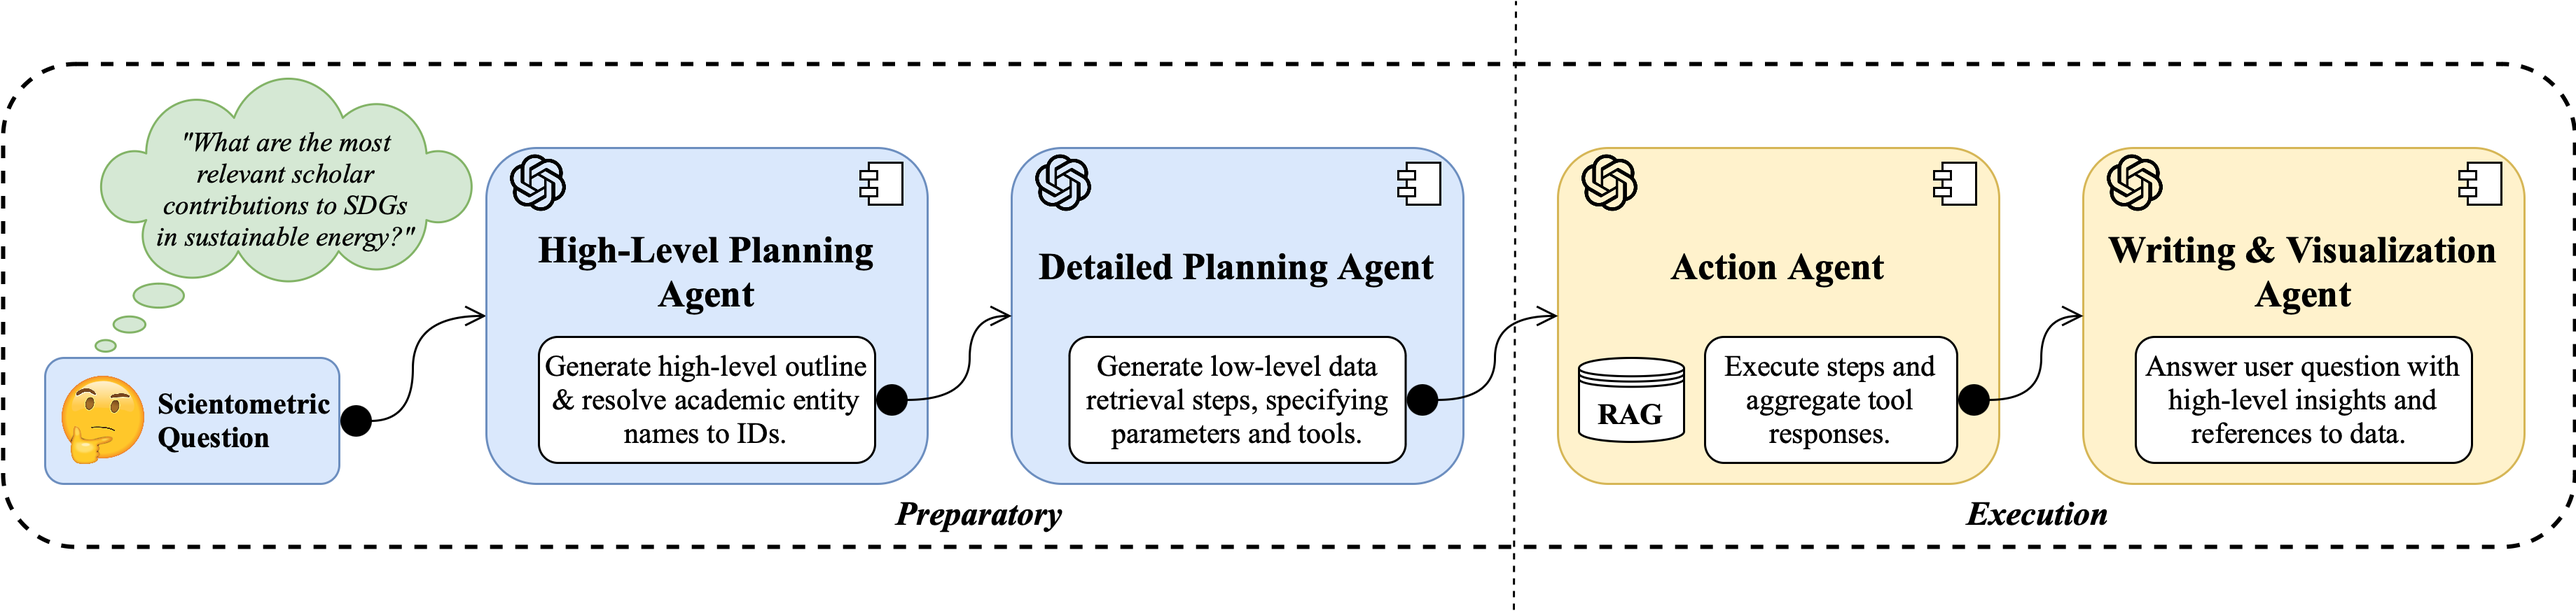
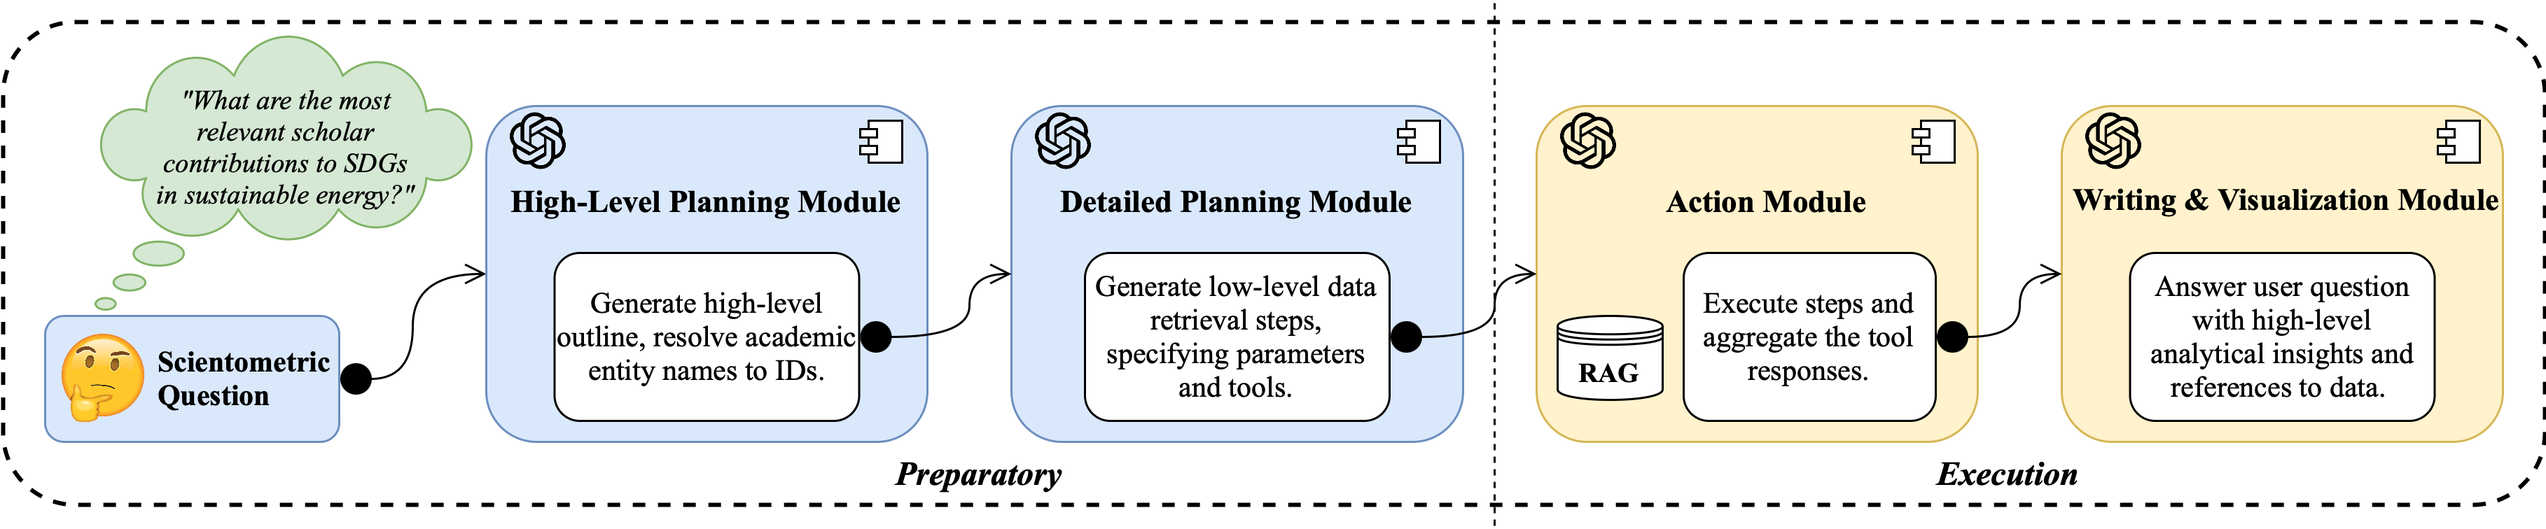
Adjust submission

Changed region(s): [[0.0, 0.0304, 1.0, 0.9735]]

diff --git a/README.md b/README.md
@@ -2,8 +2,8 @@
 
 ![](img/analyticsgpt_sysdiag_no_examples.png)
 
-This repository contains the template code and prompts for the paper *"AnalyticsGPT: A Multi-Agent LLM Workflow for Scientometric Question
-Answering,"* an ACL 2025 Industry Track submission. 
+This repository contains the template code and prompts for the paper *"AnalyticsGPT: An LLM Workflow for Scientometric Question
+Answering,"* an EMNLP 2025 Industry Track submission. 
 
 The code has been stripped of implementation-specific code relating to company intellectual property, e.g. specific tool parameters and API endpoints.
 
